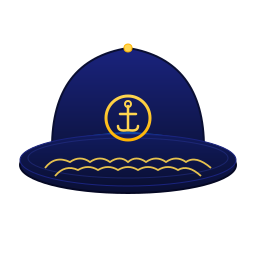
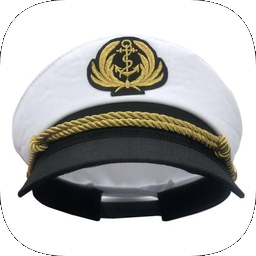
Bump version to 1.1.1 and refresh branding assets

diff --git a/CHANGELOG.md b/CHANGELOG.md
@@ -5,6 +5,11 @@ All notable changes to this project will be documented in this file.
 The format is based on [Keep a Changelog](https://keepachangelog.com/en/1.0.0/),
 and this project adheres to [Semantic Versioning](https://semver.org/spec/v2.0.0.html).
 
+## [1.1.1] - 2026-03-27
+
+### Changed
+- Updated integration branding assets to use the new captain hat image for both icon and logo.
+
 ## [1.0.0] - 2026-01-20
 
 ### Added
